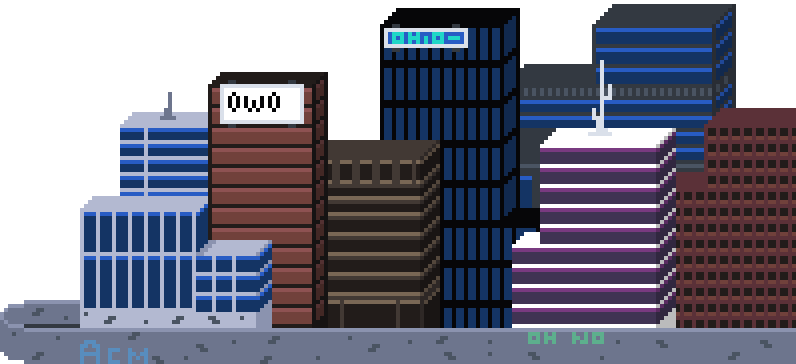
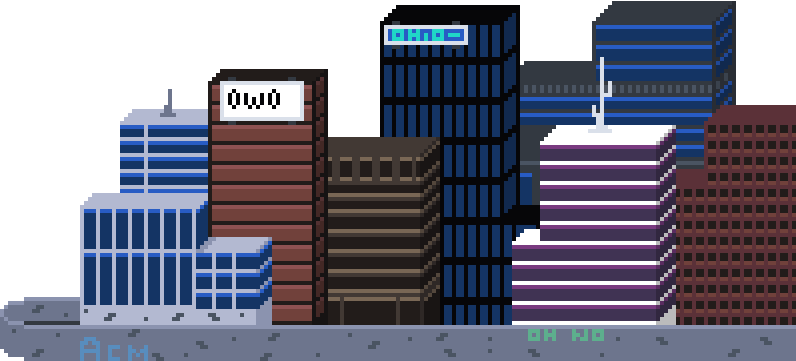
Added the rest of the city

diff --git a/game/visualizer/city_sprites.py b/game/visualizer/city_sprites.py
@@ -5,7 +5,7 @@ from game.visualizer.game_log_parser import *
 
 def draw_city_sprites(turn_info, surf):
     x = 484
-    y = 200
+    y = 0
     #Draw Sprite object
     CitySprite(x , y , surf, turn_info)
 
@@ -17,20 +17,31 @@ class CitySprite(pygame.sprite.Sprite):
         super().__init__()
         self.info = turn_info
         images = [
-            "game/visualizer/assets/city_assets/city_level1.png",
             "game/visualizer/assets/city_assets/city_default.png",
+            "game/visualizer/assets/city_assets/city_level1.png",
+            "game/visualizer/assets/city_assets/city_level2.png",
+            "game/visualizer/assets/city_assets/city_level3.png"
         ]
+        structure = 0
+        try:
+            structure = int(self.info['player'].get('city').get('structure'))
+        except:
+            print("NO! >:(")
 
-        structure = int(self.info['player'].get('city').get('structure'))
-        if structure is not None:
-            if structure > 150:
-                self.image = pygame.image.load(images[0])
-            else:
-                self.image = pygame.image.load(images[1])
+        if structure > 150:
+            self.image = pygame.image.load(images[3])
+        elif structure > 100:
+            self.image = pygame.image.load(images[2])
+        elif structure > 50:
+            self.image = pygame.image.load(images[1])
+        else:
+            self.image = pygame.image.load(images[0])
 
-        surf.blit(self.image, (x,y))
         #image needs rect to work
         self.rect = self.image.get_rect()
+
+        surf.blit(self.image, (x,y))
+
 
 
 
